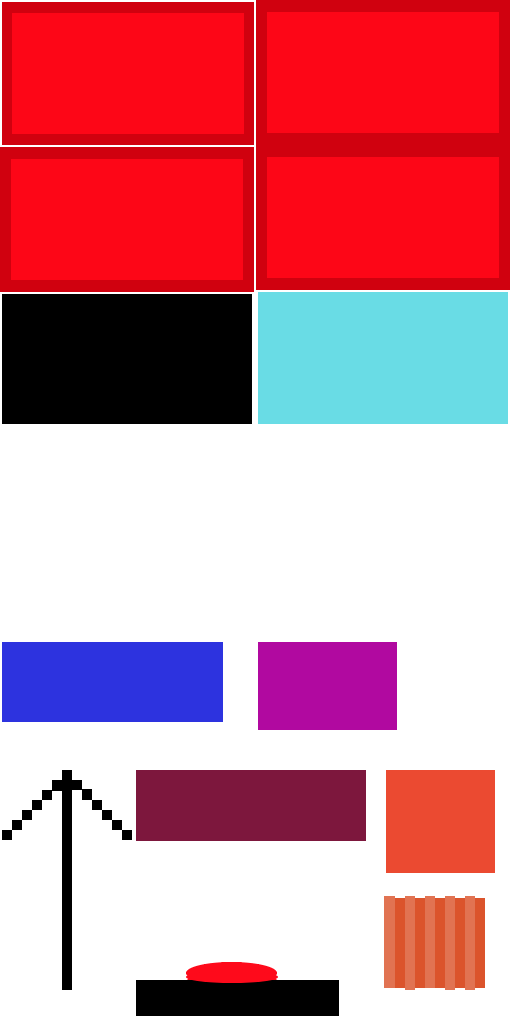
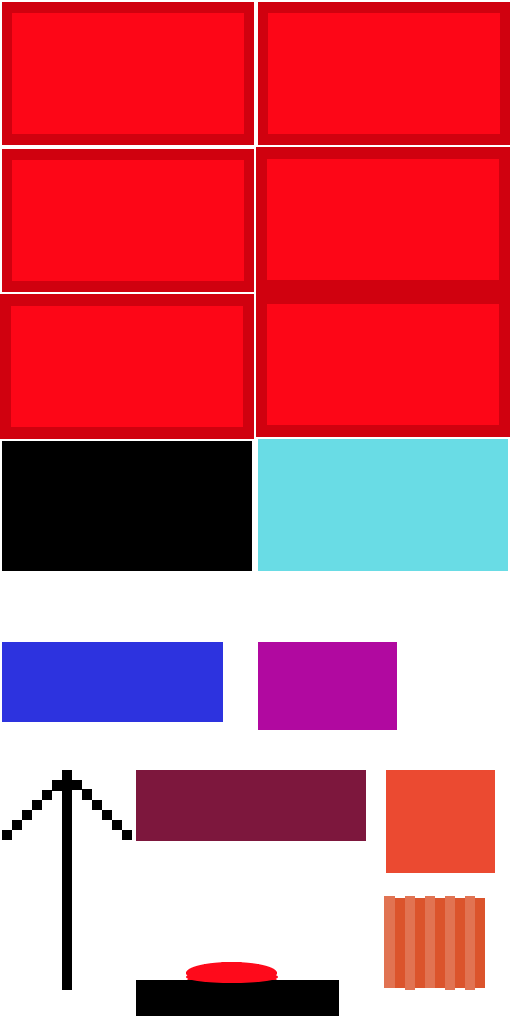
lvl 2

Changed region(s): [[0.0, 0.125, 1.0, 0.5625], [0.5, 0.0, 0.9688, 0.1562]]

diff --git a/SticksandStones/scripts/main.js b/SticksandStones/scripts/main.js
@@ -47,7 +47,7 @@ data["responseId"];const isOk=data["isOk"];const result=data["result"];const pen
 handlerMap.set(handler,func)}static AddDOMHandlerClass(Class){if(domHandlerClasses.includes(Class))throw new Error("DOM handler already added");domHandlerClasses.push(Class)}_FindRuntimeDOMHandler(){for(const dh of this._domHandlers)if(dh.GetComponentID()==="runtime"){this._runtimeDomHandler=dh;return}throw new Error("cannot find runtime DOM handler");}_OnMessageFromDebugger(e){this.PostToRuntimeComponent("debugger","message",e)}_OnRuntimeReady(){for(const h of this._domHandlers)h.Attach()}static IsDocumentFullscreen(){return!!(document["fullscreenElement"]||
 document["webkitFullscreenElement"]||document["mozFullScreenElement"])}async GetRemotePreviewStatusInfo(){return await this.PostToRuntimeComponentAsync("runtime","get-remote-preview-status-info")}_AddRAFCallback(f){this._rafCallbacks.push(f);this._RequestAnimationFrame()}_RemoveRAFCallback(f){const i=this._rafCallbacks.indexOf(f);if(i===-1)throw new Error("invalid callback");this._rafCallbacks.splice(i,1);if(!this._rafCallbacks.length)this._CancelAnimationFrame()}_RequestAnimationFrame(){if(this._rafId===
 -1&&this._rafCallbacks.length)this._rafId=requestAnimationFrame(this._rafFunc)}_CancelAnimationFrame(){if(this._rafId!==-1){cancelAnimationFrame(this._rafId);this._rafId=-1}}_OnRAFCallback(){this._rafId=-1;for(const f of this._rafCallbacks)f();this._RequestAnimationFrame()}TryPlayMedia(mediaElem){this._runtimeDomHandler.TryPlayMedia(mediaElem)}RemovePendingPlay(mediaElem){this._runtimeDomHandler.RemovePendingPlay(mediaElem)}_PlayPendingMedia(){this._runtimeDomHandler._PlayPendingMedia()}SetSilent(s){this._runtimeDomHandler.SetSilent(s)}IsAudioFormatSupported(typeStr){return!!supportedAudioFormats[typeStr]}async _WasmDecodeWebMOpus(arrayBuffer){const result=
-await this.PostToRuntimeComponentAsync("runtime","opus-decode",{"arrayBuffer":arrayBuffer},null,[arrayBuffer]);return new Float32Array(result)}IsAbsoluteURL(url){return/^(?:[a-z\-]+:)?\/\//.test(url)||url.substr(0,5)==="data:"||url.substr(0,5)==="blob:"}IsRelativeURL(url){return!this.IsAbsoluteURL(url)}async _MaybeGetCordovaScriptURL(url,type){if(this._exportType==="cordova"&&!isiOSLike&&type==="module"&&(url.startsWith("file:")||this.IsRelativeURL(url))){let filename=url;if(filename.startsWith(this._baseUrl))filename=
+await this.PostToRuntimeComponentAsync("runtime","opus-decode",{"arrayBuffer":arrayBuffer},null,[arrayBuffer]);return new Float32Array(result)}IsAbsoluteURL(url){return/^(?:[a-z\-]+:)?\/\//.test(url)||url.substr(0,5)==="data:"||url.substr(0,5)==="blob:"}IsRelativeURL(url){return!this.IsAbsoluteURL(url)}async _MaybeGetCordovaScriptURL(url,type){if(this._exportType==="cordova"&&type==="module"&&(url.startsWith("file:")||location.protocol==="file:"&&this.IsRelativeURL(url))){let filename=url;if(filename.startsWith(this._baseUrl))filename=
 filename.substr(this._baseUrl.length);const arrayBuffer=await this.CordovaFetchLocalFileAsArrayBuffer(filename);const blob=new Blob([arrayBuffer],{type:"application/javascript"});return URL.createObjectURL(blob)}else return url}async _OnCordovaFetchLocalFile(e){const filename=e["filename"];switch(e["as"]){case "text":return await this.CordovaFetchLocalFileAsText(filename);case "buffer":return await this.CordovaFetchLocalFileAsArrayBuffer(filename);default:throw new Error("unsupported type");}}_GetPermissionAPI(){const api=
 window["cordova"]&&window["cordova"]["plugins"]&&window["cordova"]["plugins"]["permissions"];if(typeof api!=="object")throw new Error("Permission API is not loaded");return api}_MapPermissionID(api,permission){const permissionID=api[permission];if(typeof permissionID!=="string")throw new Error("Invalid permission name");return permissionID}_HasPermission(id){const api=this._GetPermissionAPI();return new Promise((resolve,reject)=>api["checkPermission"](this._MapPermissionID(api,id),status=>resolve(!!status["hasPermission"]),
 reject))}_RequestPermission(id){const api=this._GetPermissionAPI();return new Promise((resolve,reject)=>api["requestPermission"](this._MapPermissionID(api,id),status=>resolve(!!status["hasPermission"]),reject))}async RequestPermissions(permissions){if(this.GetExportType()!=="cordova")return true;if(this.IsiOSCordova())return true;for(const id of permissions){const alreadyGranted=await this._HasPermission(id);if(alreadyGranted)continue;const granted=await this._RequestPermission(id);if(granted===false)return false}return true}async RequirePermissions(...permissions){if(await this.RequestPermissions(permissions)===

diff --git a/index.html b/index.html
@@ -45,7 +45,7 @@
 			</div>
 		</div>
 			<div class="col-md-1">
-				<p> Version (0.534.91) </p>
+				<p> Version (0.551.00) </p>
 			</div>
 			
 	</div>
@@ -84,26 +84,20 @@
 			<h2>
 				<a href="page 2.html" target ="PastUpdatesPage" style="color:black"> Updates </a>
 			</h2>
-					  <strong>02/03(0.534.91):</Strong> Added SticksandStones to the game page along with some updates to it. unforturely I have got some bad news that I put in the Future update section, and removed the demo as it is no longer needed.	
+					  <strong>02/10(0.551.00):</Strong> Added new Level to SticksandStones.
+				</Br> <strong>02/03(0.534.91):</Strong> Added SticksandStones to the game page along with some updates to it. unforturely I have got some bad news that I put in the Future update section, and removed the demo as it is no longer needed.	
 				</Br> <Strong>01/27(0.521.80):</Strong> Added a new home screen to SticksandStones Demo and updated future update section regarding what I’m focussed on with SticksandStones. 
 				</Br> <Strong>01/20(0.515.78):</Strong> Cleaned up the about section to make it more user friendly, Bolded the versions of updates to make them easier to read, and added the first Demo of Game #4, SticksandStones! go check it out in the future updates section.	  
 				</Br> <Strong>01/13(0.490.66):</Strong> Updated about section to better explain versions, and to test new code. making steady progress on game #4. 
 				</br> <Strong>01/06(0.487.52):</Strong> Changed and assigned versions to previous updates. 	
 				</br> <Strong>01/04(0.485.48):</Strong> Added website version to top right and past update page (click on "updates").   
-				</br> <Strong>12/18(0.481.35):</Strong> Pushed bug fixes + minor changes to Galactic Wars (accidently wasn't released on 12/17).
+				
 				
 				 		
 				
 			
 				
-				
-				
-				 
-			    	
-				 
-				
-				
-				
+			
 			        
 				
 				 

diff --git a/page 2.html b/page 2.html
@@ -37,6 +37,7 @@
 		</div>
 		<div class="col-md-8" style = "border: 4px double Black;">
 			<h5><strong> UPDATE HISTORY </strong> </h5>
+				<Li/> 02/10(0.551.00): Added new Level to SticksandStones.
 				<li/> 02/03(0.534.91): Added SticksandStones to the game page along with some updates to it. unforturely I have got some bad news that I put in the Future update section, and removed the demo as it is no longer needed.
 				<li/> 01/27(0.521.80): Added a new home screen to SticksandStones Demo and updated future update section regarding what I’m focussed on with SticksandStones. 
 				<li/> 01/20(0.515.78): Cleaned up the about section to make it more user friendly, Blolded the versions of updates to make them easier to read, and added the first Demo of Game #4, SticksandStones! go check it out in the future updates section.

diff --git a/SticksandStones/scripts/c3runtime.js b/SticksandStones/scripts/c3runtime.js
@@ -3152,6 +3152,10 @@ const map=new WeakMap;self.IBulletBehaviorInstance=class IBulletBehaviorInstance
 		{arrow: 0},
 		{TutorialBoc: 0},
 		{Tutorialtext: 0},
+		{MenuBloc: 0},
+		{BacktoMenu: 0},
+		{Nextlev2: 0},
+		{Nextlvl2txt: 0},
 		{GC: 0}
 	];
 }
@@ -3275,7 +3279,7 @@ const map=new WeakMap;self.IBulletBehaviorInstance=class IBulletBehaviorInstance
 			return () => n0.ExpInstVar();
 		},
 		() => 2,
-		() => "YOU WON! Thank you for playing the SticksandStones! Press space to go back to the main menu"
+		() => "YOU WON! Thank you for playing SticksandStones!"
 	];
 }
 
